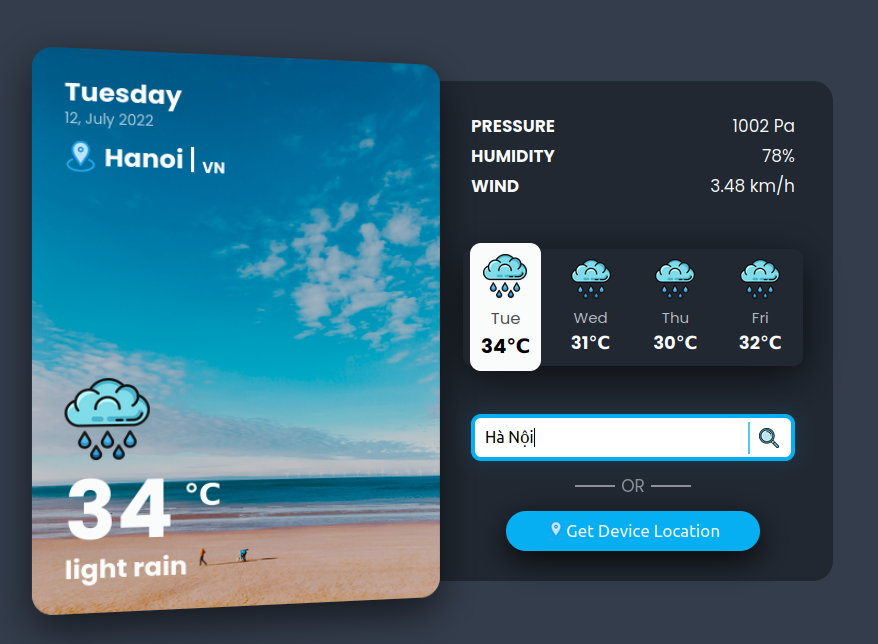
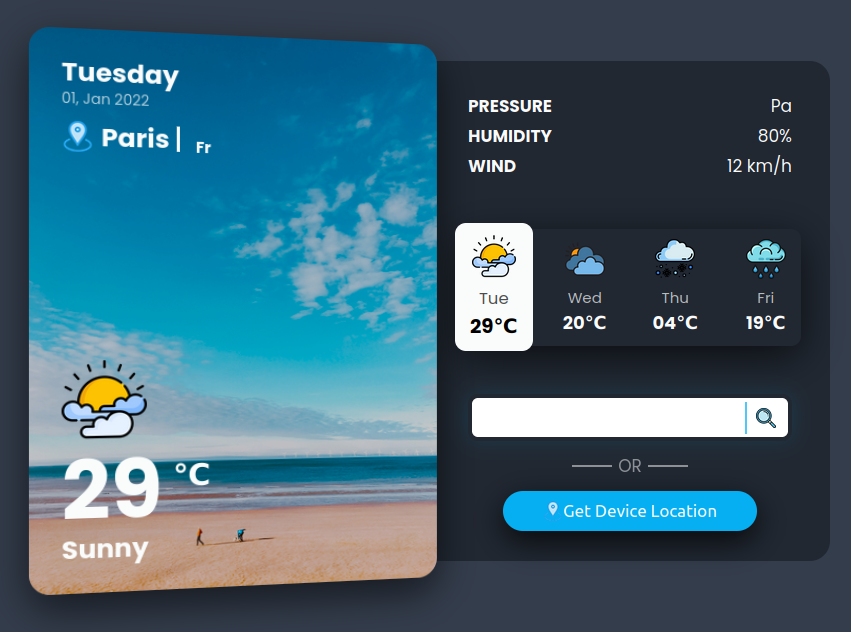
View weather and details of other days

Changed region(s): [[0.0306, 0.0301, 0.9777, 0.962], [0.3972, 0.1804, 0.4583, 0.2405]]

diff --git a/Weather App/main.js b/Weather App/main.js
@@ -17,6 +17,9 @@ const dayOfWeek = document.querySelector('.weather--left .day'),
       btnDeviceLoc = document.querySelector('.weather__current-location')
       ;
 
+let timelineDays = timeline.querySelectorAll('.weather__timeline__day'),
+    res;    // response of api
+
 const apiKeys = '74b2bc7eab84c86dab9dde6f1609b9ab';
 
 const weekdays = ['Sunday', 'Monday', 'Tuesday', 'Wednesday', 'Thursday', 'Friday', 'Saturday'];
@@ -49,6 +52,25 @@ const init = () => {
 
 /* ================ HANDLE EVENT ================ */
 
+const editWeatherDetails = function(id) {
+    const weatherToday = res.list[id];
+    // Get yyyy-mm-dd and reformat to dd, mm, yyyy
+    const dateData = res.list[id].dt_txt.split(' ')[0].split('-');
+    
+    // Day of week
+    dayOfWeek.textContent = weekdays[new Date(res.list[id].dt_txt).getDay()];
+    
+    // day, month year
+    date.textContent = `${dateData[2]}, ${months[dateData[1].replace(/^0/, '')]} ${dateData[0]}`;
+    
+    imgState.src = states[weatherToday.weather[0].main.toLowerCase()];
+    temperature.innerHTML = `${Math.trunc(weatherToday.main.temp - 270)}<span class="text text--small unit">℃</span>`;
+    textState.textContent = weatherToday.weather[0].description;
+    
+    pressure.textContent = `${weatherToday.main.pressure} Pa`;
+    humidity.textContent = `${weatherToday.main.humidity}%`;
+    wind.textContent = `${weatherToday.wind.speed} km/h`;
+}
 
 const getWeatherData = async function(e) {
     try {
@@ -59,52 +81,52 @@ const getWeatherData = async function(e) {
         const cityInput = input.value.trim().toLowerCase();
         
         const weatherData = await fetch(`https://api.openweathermap.org/data/2.5/forecast?q=${cityInput}&appid=${apiKeys}`);
-
-        const res = await weatherData.json();
-        console.log(res);
-
-        // Get today
-        const now = new Date();
-
-        // Day of week
-        dayOfWeek.textContent = weekdays[now.getDay()];
         
-        // day, month year
-        date.textContent = `${now.getDate()}, ${months[now.getMonth()]} ${now.getFullYear()}`;
+        if(!weatherData.ok) throw new Error('Get data failure !');
+        res = await weatherData.json();
+        // console.log(res);
 
         // city and country
         city.innerHTML = `${res.city.name} <span class="text text--mini country">${res.city.country}</span>`;
-
-        const weatherToday = res.list[0];
         
-        imgState.src = states[weatherToday.weather[0].main.toLowerCase()];
-        temperature.innerHTML = `${Math.trunc(weatherToday.main.temp - 270)}<span class="text text--small unit">℃</span>`;
-        textState.textContent = weatherToday.weather[0].description;
-        
-        pressure.textContent = `${weatherToday.main.pressure} Pa`;
-        humidity.textContent = `${weatherToday.main.humidity}%`;
-        wind.textContent = `${weatherToday.wind.speed} km/h`;
-        
+        // Change all value relate location, 0 stand for today
+        editWeatherDetails(0);
         // Weather in 4 day
         timeline.innerHTML = '';
         for(let i = 0; i <= 24; i += 8) {
             timeline.insertAdjacentHTML('beforeend', `
-                <div class="weather__timeline__day">
+                <div class="weather__timeline__day ${!i && 'weather__timeline__day--active'}" data-idx="${i}">
                     <img src="${states[res.list[i].weather[0].main.toLowerCase()]}" alt="" class="icon icon--small weather__state">
-                    <p class="text text--mini day">${weekdays[now.getDay() + i / 8].slice(0, 3)}</p>
+                    <p class="text text--mini day">${weekdays[(new Date(res.list[i].dt_txt).getDay()) % 8].slice(0, 3)}</p>
                     <p class="text text--bold text--small temperature">
                         ${Math.trunc(res.list[i].main.temp - 270)}<span class="text text--small unit">℃</span>
                     </p>
                     </p>
                 </div>
             `);
-            
         }
+
+        // Reset timeline day when query new location
+        timelineDays = timeline.querySelectorAll('.weather__timeline__day');
     } catch (err) {
-        console.log(err);
+        console.error(`ERR: ${err.message}`);
     }
 }
 
+const changeWeatherByDay = function(e) {
+
+    // display target day clicked by user
+    const targetDay = e.target.closest('.weather__timeline__day');
+    // If click into space between divs then return
+    if(!targetDay)  return;
+    timelineDays.forEach(tld => tld.classList.remove('weather__timeline__day--active'));
+    targetDay.classList.add('weather__timeline__day--active');
+
+    const id = targetDay.dataset.idx;
+    editWeatherDetails(id);
+}
+
+timeline.addEventListener('click', changeWeatherByDay);
 input.addEventListener('keyup', getWeatherData);
 btnSearch.addEventListener('click', getWeatherData);
 window.addEventListener('load', init);

diff --git a/Weather App/style.scss b/Weather App/style.scss
@@ -153,18 +153,19 @@ html {
         column-gap: 2rem;
         box-shadow: 0 1rem 4rem rgba($color-black, 0.7);
         border-radius: 1rem;
-        padding: 0 1rem;
-
+        width: 95%;
         &__day {
             text-align: center;
             border-radius: inherit;
             padding: 1rem;
+            cursor: pointer;
+            transition: all 0.4s ease;
 
             .text--mini {
                 opacity: 0.7;
             }
 
-            &:first-of-type {
+            &--active {
                 background-color: $color-white;
                 color: $color-black;
                 transform: scale(1.1);

diff --git a/Weather App/index.html b/Weather App/index.html
@@ -48,7 +48,7 @@
                 </div>
             </div>
             <div class="weather__timeline">
-                <div class="weather__timeline__day">
+                <div class="weather__timeline__day weather__timeline__day--active">
                     <img src="icons/sun.png" alt="" class="icon icon--small weather__state">
                     <p class="text text--mini day">Tue</p>
                     <p class="text text--bold text--small temperature">29<span class="text text--small unit">℃</span>

diff --git a/Weather App/style.css b/Weather App/style.css
@@ -129,17 +129,19 @@ html {
   column-gap: 2rem;
   box-shadow: 0 1rem 4rem rgba(0, 0, 0, 0.7);
   border-radius: 1rem;
-  padding: 0 1rem;
+  width: 95%;
 }
 .weather__timeline__day {
   text-align: center;
   border-radius: inherit;
   padding: 1rem;
+  cursor: pointer;
+  transition: all 0.4s ease;
 }
 .weather__timeline__day .text--mini {
   opacity: 0.7;
 }
-.weather__timeline__day:first-of-type {
+.weather__timeline__day--active {
   background-color: #fafbfb;
   color: #000;
   transform: scale(1.1);
